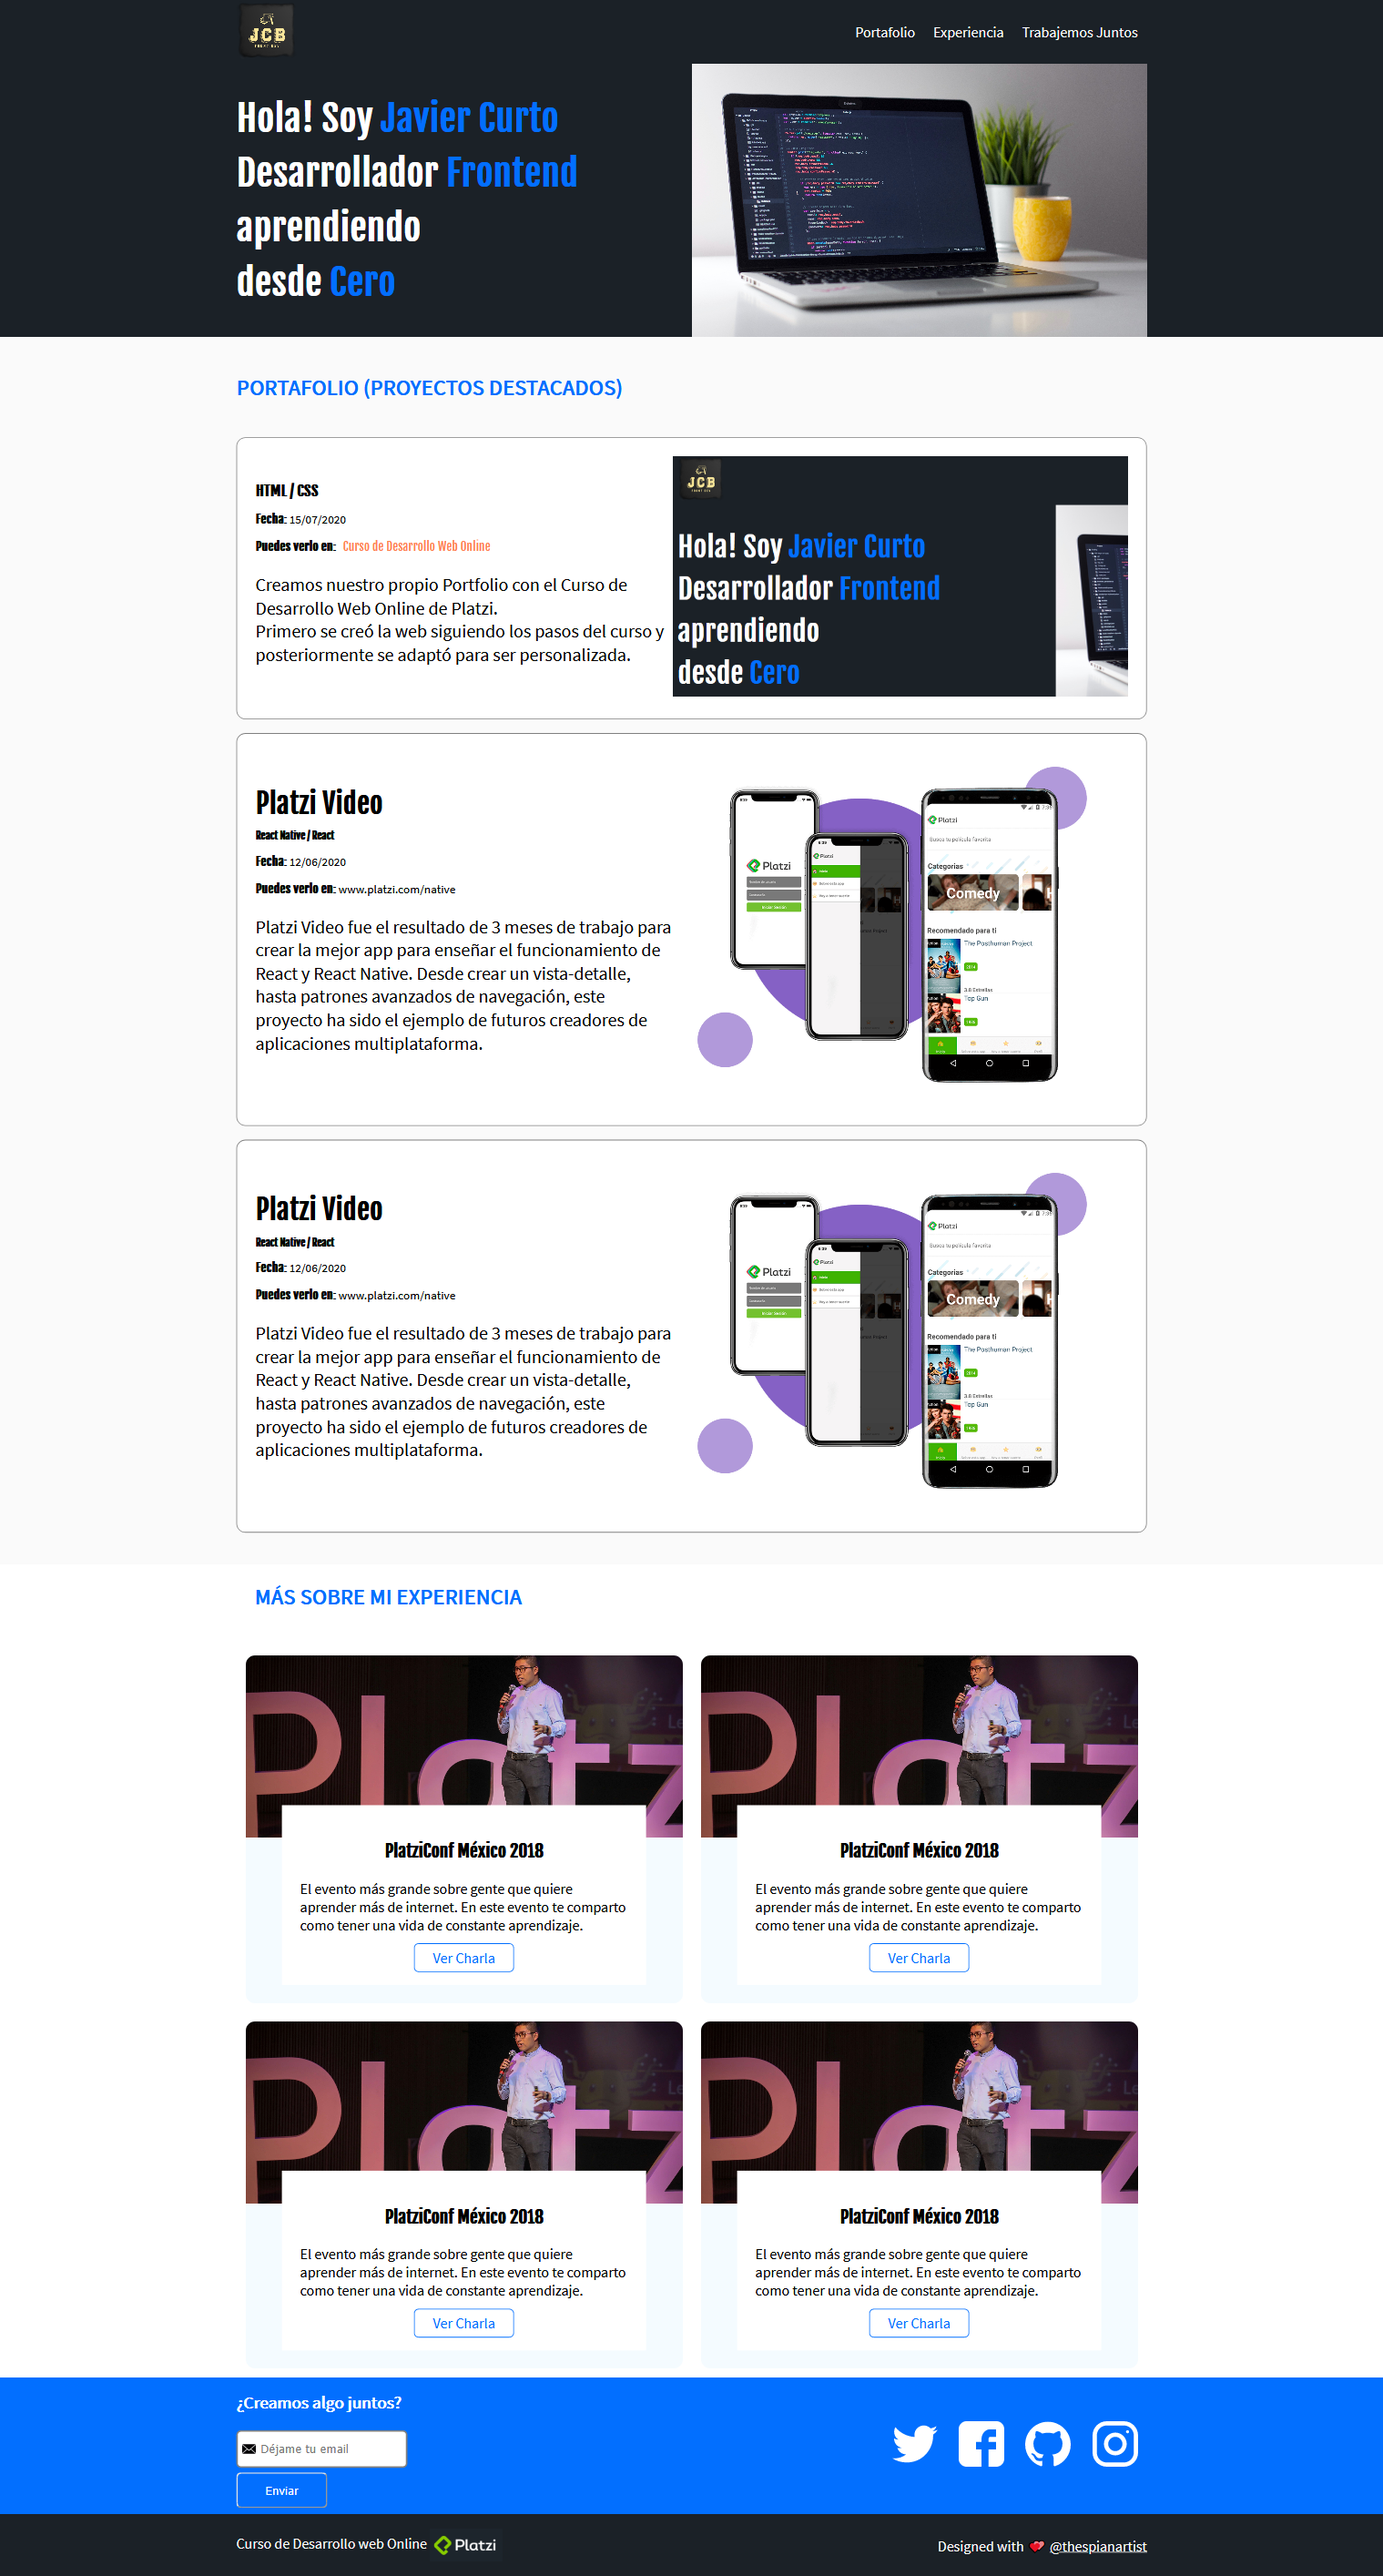
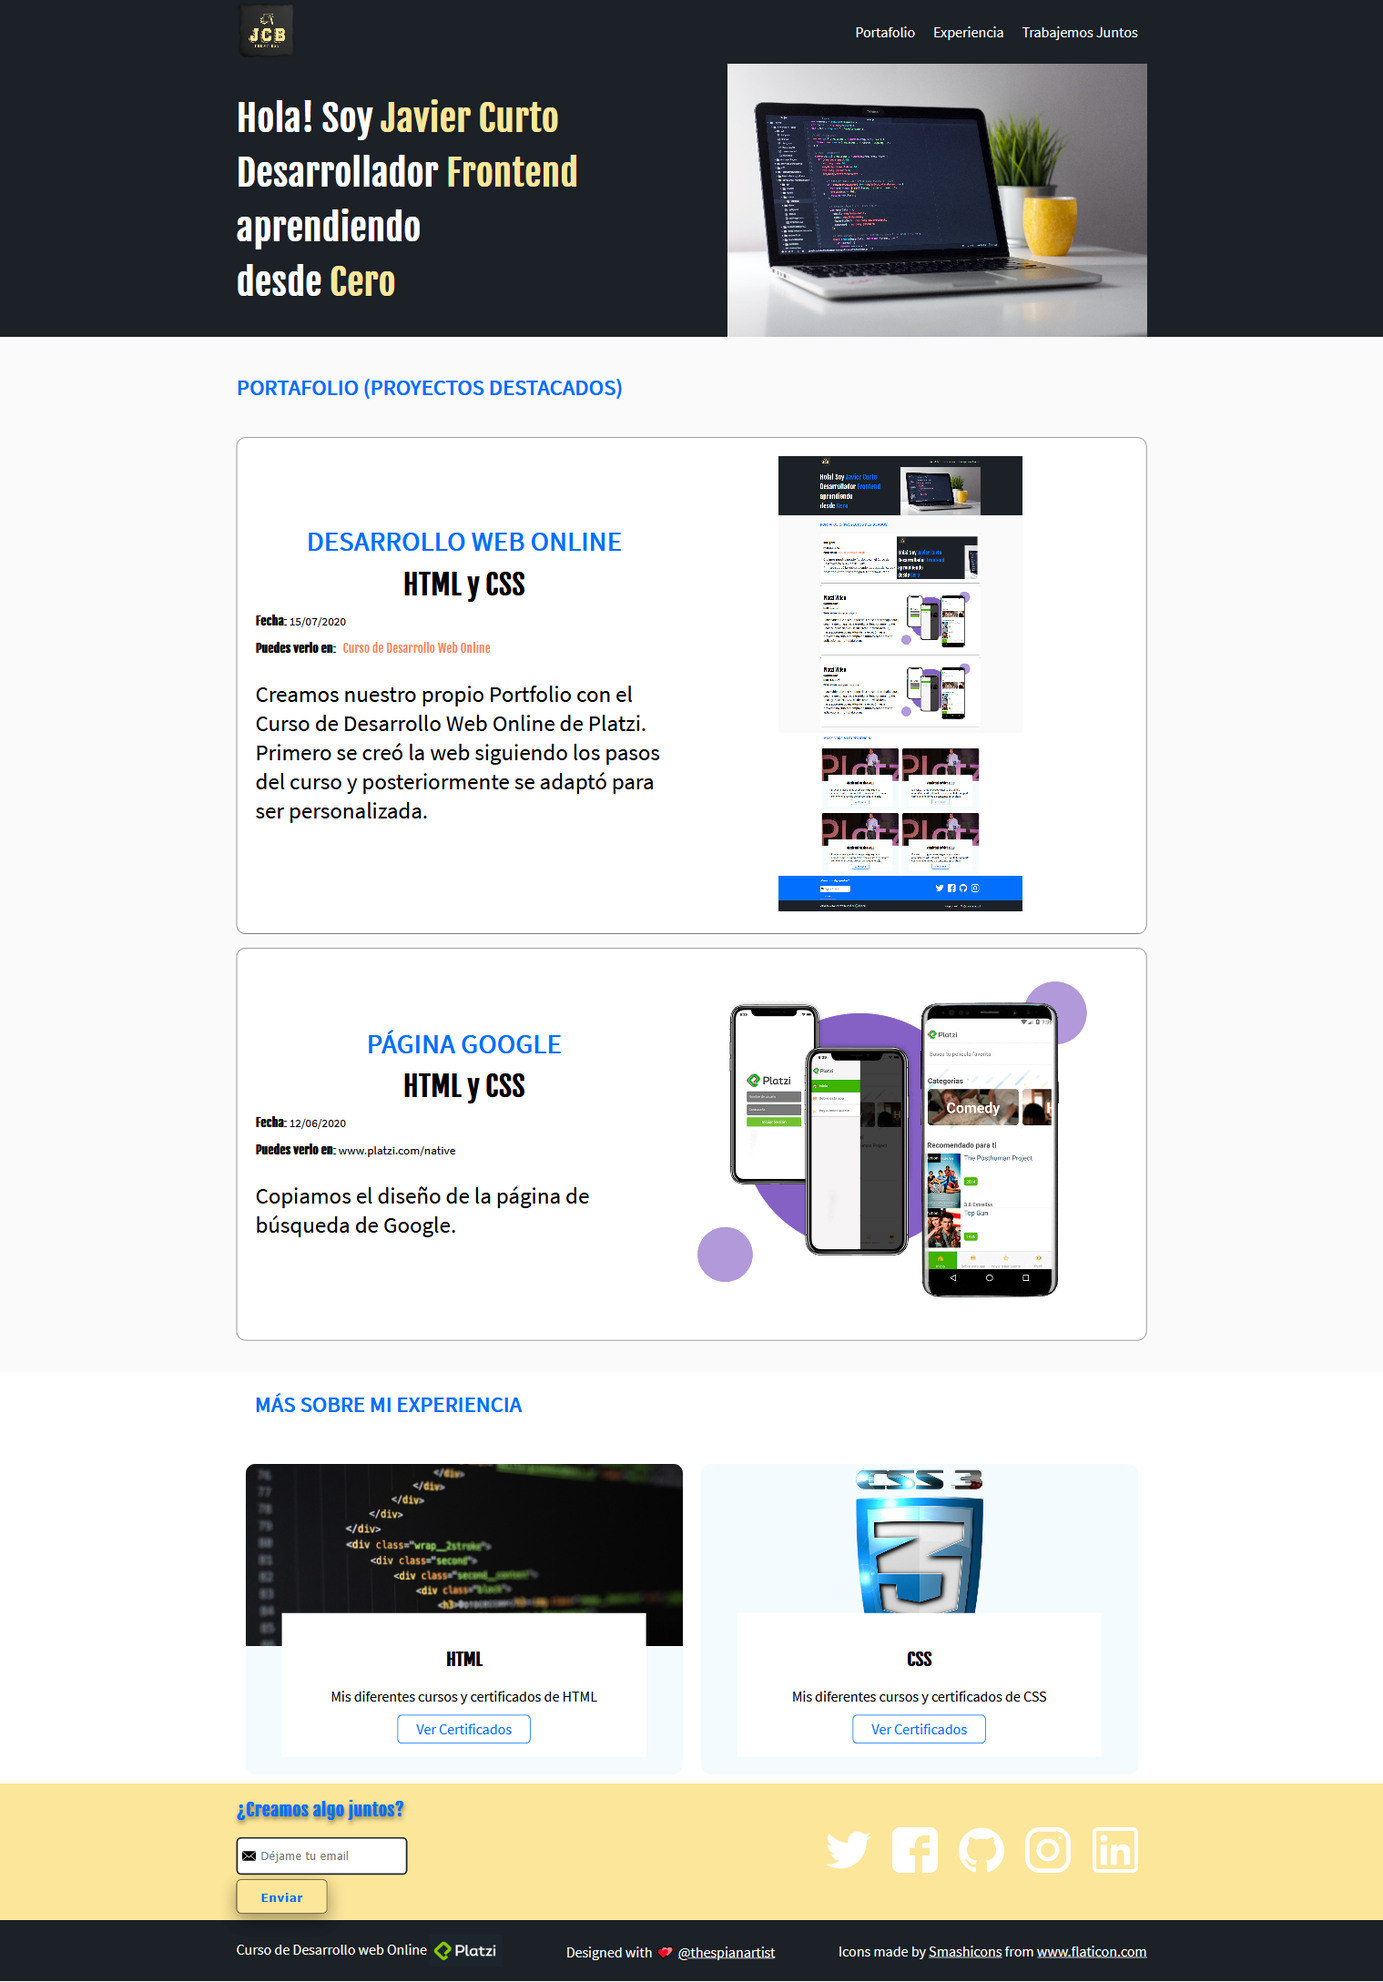
finalizando diseño y páginas de certificados

diff --git a/index.html b/index.html
@@ -8,10 +8,7 @@
 			href="./images/JCB_Front_Dev.png"
 			type="image/x-icon"
 		/>
-		<link
-			href="https://fonts.googleapis.com/css2?family=Fjalla+One&family=Source+Sans+Pro&display=swap"
-			rel="stylesheet"
-		/>
+		<link href="https://fonts.googleapis.com/css2?family=Fjalla+One&family=Source+Sans+Pro:wght@400;900&display=swap" rel="stylesheet">
 		<link rel="stylesheet" href="./CSS/estilos.css" />
 		<title>Página de Javier Curto</title>
 	</head>
@@ -58,7 +55,7 @@
 				<article class="project">
 					<div class="project-details">
 						<h2 class="project-title">Desarrollo Web Online</h2>
-						<h3 class="project-course">HTML / CSS</h3>
+						<h3 class="project-course">HTML y CSS</h3>
 						<p class="project-date">
 							<small><strong>Fecha:</strong> 15/07/2020</small>
 						</p>
@@ -83,22 +80,18 @@
 				</article>
 				<article class="project">
 					<div class="project-details">
-						<h3 class="project-title">Platzi Video</h3>
-						<h6 class="project-course">React Native / React</h6>
+						<h2 class="project-title">Página Google</h2>
+						<h3 class="project-course">HTML y CSS</h3>
 						<p class="project-date">
 							<small><strong>Fecha:</strong> 12/06/2020</small>
 						</p>
 						<p class="project-url">
 							<small
-								><strong>Puedes verlo en:</strong> www.platzi.com/native</small
+								><strong>Puedes verlo en:</strong> En proceso de finalización</small
 							>
 						</p>
 						<p class="project-description">
-							Platzi Video fue el resultado de 3 meses de trabajo para crear la
-							mejor app para enseñar el funcionamiento de React y React Native.
-							Desde crear un vista-detalle, hasta patrones avanzados de
-							navegación, este proyecto ha sido el ejemplo de futuros creadores de
-							aplicaciones multiplataforma.
+							Copiamos el diseño de la página de búsqueda de Google.
 						</p>
 					</div>
 					<figure class="project-imageContainer">
@@ -110,7 +103,7 @@
 						/>
 					</figure>
 				</article>
-				<article class="project">
+				<!-- <article class="project">
 					<div class="project-details">
 						<h3 class="project-title">Platzi Video</h3>
 						<h6 class="project-course">React Native / React</h6>
@@ -138,7 +131,7 @@
 							width="500"
 						/>
 					</figure>
-				</article>
+				</article> -->
 			</div>
 		</section>
 		<div class="container">
@@ -149,7 +142,7 @@
 						<img
 							class="event-image"
 							src="./images/html-img.png"
-							alt="Imágen HTML"
+							alt="Imagen HTML"
 							width="500"
 						/>
 					</figure>
@@ -169,28 +162,26 @@
 				<article class="event">
 					<figure class="event-imageContainer">
 						<img
-							class="event-image"
-							src="./images/platzi-conf.jpg"
-							alt="Conferencia"
+							class="event-image css"
+							src="./images/css3-1841590_640.png"
+							alt="Imagen CSS"
 							width="500"
 						/>
 					</figure>
 					<div class="event-detail">
-						<h3 class="event-title">PlatziConf México 2018</h3>
+						<h3 class="event-title">CSS</h3>
 						<p class="event-description">
-							El evento más grande sobre gente que quiere aprender más de
-							internet. En este evento te comparto como tener una vida de
-							constante aprendizaje.
+							Mis diferentes cursos y certificados de CSS
 						</p>
 						<a
 							class="event-url"
-							href="https://www.youtube.com/watch?v=BIS7cWGgJg0"
-							target="_blank"
-							>Ver Charla</a
+							href="./cert_css.html"
+							>Ver Certificados</a
 						>
+						
 					</div>
 				</article>
-				<article class="event">
+				<!-- <article class="event">
 					<figure class="event-imageContainer">
 						<img
 							class="event-image"
@@ -237,7 +228,7 @@
 							>Ver Charla</a
 						>
 					</div>
-				</article>
+				</article> -->
 			</section>
 		</div>
 		<section id="contacto" class="contact">
@@ -257,8 +248,9 @@
 				<div class="social">
 					<a href="https://twitter.com/nivencillo" class="social-link twitter"></a>
 					<a href="https://facebook.com/nivencillo" class="social-link facebook"></a>
-					<a href="https://github.com/CurtoBrull" class="social-link github"></a>
 					<a href="https://instagram.com/j.curtobrull/" class="social-link instagram"></a>
+					<a href="https://github.com/CurtoBrull" class="social-link github"></a>
+					<a href="https://www.linkedin.com/in/javier-curto-brull" class="social-link linkedin"></a>
 				</div>
 			</div>
 		</section>
@@ -280,6 +272,7 @@
 						<a href="https://twitter.com/thespianartist">@thespianartist</a>
 					</p>
 				</div>
+				<div>Icons made by <a href="https://www.flaticon.com/authors/smashicons" title="Smashicons">Smashicons</a> from <a href="https://www.flaticon.com/" title="Flaticon">www.flaticon.com</a></div>
 			</div>
 		</footer>
 	</body>

diff --git a/CSS/estilos.css b/CSS/estilos.css
@@ -8,11 +8,13 @@
     --celeste-suave: #f4fbff;
     --gris-blanco: #fafafa;
     --dorado: #fce69a;
+    --dorado-suave: #f8eab8;
 }
 
 body {
     font-family: var(--font-sansPro), sans-serif;
     margin: 0;
+    background-color: var(--dorado-suave);
 }
 
 ol,
@@ -52,7 +54,7 @@ h2 {
     text-transform: uppercase;
     font-family: var(--font-sansPro);
     font-weight: bold;
-    font-size: 24px;
+    font-size: 30px;
     margin-bottom: 40px;
 }
 
@@ -108,7 +110,7 @@ h2 {
 }
 
 .portfolio {
-    background-color: var(--gris-blanco);
+    background-color: var(--dorado-suave);
     padding: 20px;
 }
 
@@ -194,6 +196,10 @@ article.project:nth-child(2) > figure:nth-child(2) > img:nth-child(1) {
     object-fit: cover;
 }
 
+.event-image.css {
+    object-fit: contain;
+}
+
 .event-detail {
     margin: 20px 40px;
     margin-top: -40px;
@@ -201,6 +207,7 @@ article.project:nth-child(2) > figure:nth-child(2) > img:nth-child(1) {
     background-color: white;
     position: relative;
     text-align: center;
+    border-radius: 5px;
 }
 
 .event-description {
@@ -269,6 +276,10 @@ article.project:nth-child(2) > figure:nth-child(2) > img:nth-child(1) {
     background-image: url('../images/instagram.svg');
 }
 
+.social-link.linkedin {
+    background-image: url('../images/linkedin.svg');
+}
+
 .form-email input{
     border-color: var(--gris-oscuro);
     border-style: solid;
@@ -311,7 +322,8 @@ article.project:nth-child(2) > figure:nth-child(2) > img:nth-child(1) {
     height: inherit;
     flex-wrap: inherit;
 }
-/* Página certificados HTML */
+
+/* Páginas de certificados */
 
 .cert-header {
     background-color: var(--bcg-gris);
@@ -328,11 +340,19 @@ article.project:nth-child(2) > figure:nth-child(2) > img:nth-child(1) {
     padding-bottom: 50px;
     background-color: var(--bcg-gris);
     display: flex;
-    justify-content: space-around;
+    justify-content: space-evenly;
 }
 
 .cert-image {
     margin: 10px 0;
-    width: 40%;
     height: 400px;
+}
+
+.cert-contact {
+    background-color: var(--dorado);
+    color: var(--celeste);
+    height: 180px;
+    display: flex;
+    align-items: center;
+    justify-content: space-between;
 }

diff --git a/cert_css.html b/cert_css.html
@@ -30,28 +30,18 @@
     <div class="cert-container">       
         <img
             class="cert-image"
-            src="./images/certificados_html/ow-html.png"
-            alt="Certificado HTML 1"
-            width="500"
-            height="300"
+            src="./images/certificados_css/ow_css.png"
+            alt="Certificado CSS 1"
+            
         />
         <img
             class="cert-image"
-            src="./images/certificados_html/Platzi-web.png"
-            alt="Certificado HTML 2"
-            width="500"
-            height="300"
+            src="./images/certificados_css/udemy_css.png"
+            alt="Certificado CSS 2"
+            
         />
     </div>
-    <div class="cert-container">
-        <img
-            class="cert-image"
-            src="./images/certificados_html/edteam_html.png"
-            alt="Certificado HTML 3"
-            width="500"
-            height="300"
-        />
-    </div>
+    
     <section id="contacto" class="cert-contact">
         <div class="container">
             <form action="/suscription/" class="form-email">
